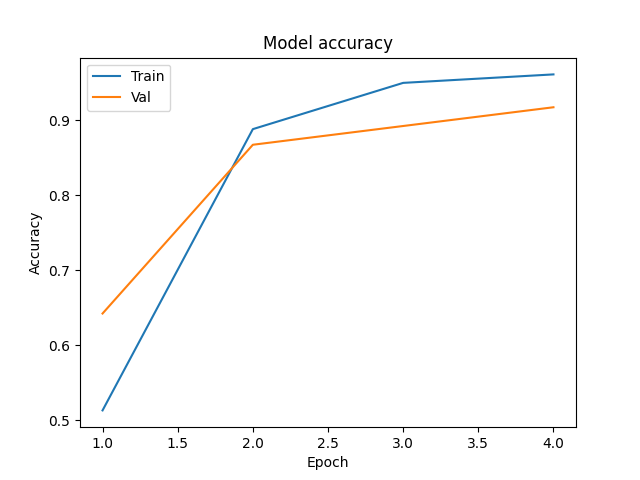
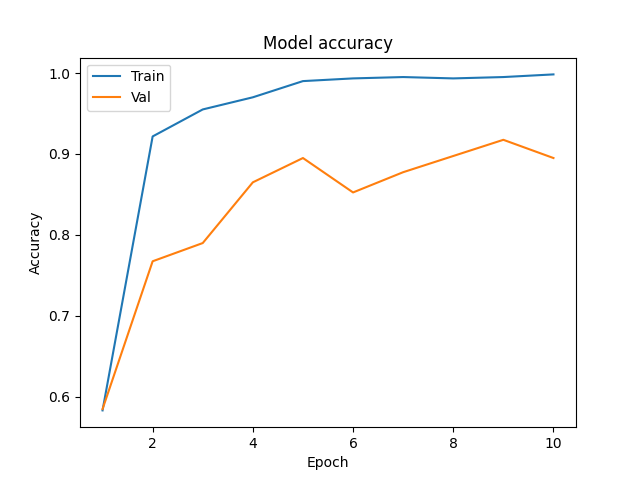
debug sound recognition laying for bedroom activity bayes model

diff --git a/room_sound/ascc_extraction_2.py b/room_sound/ascc_extraction_2.py
@@ -45,7 +45,8 @@ flush_toilet@9_freesound-flush_toilet__253105__va7mjl__toilet-flush_4.wav
     '''
     info = {}
     for i in labels:
-        sub_dir = "/home/ascc/LF_Workspace/Motion-Trigered-Activity/Sound-Recognition-Tutorial/data/ascc_activity_1second/audio/" + i
+        # sub_dir = "/home/ascc/LF_Workspace/Motion-Trigered-Activity/Sound-Recognition-Tutorial/data/ascc_activity_1second/audio/" + i
+        sub_dir = "/home/ascc/LF_Workspace/Bayes_model/ADL_HMM_BAYES_V2/ADL_HMM_BAYES/room_sound/sound_dataset/ascc_activity_1second/audio/" + i
         files = os.listdir(sub_dir)
         aa = []
         for a_file in files:
@@ -61,6 +62,12 @@ flush_toilet@9_freesound-flush_toilet__253105__va7mjl__toilet-flush_4.wav
     train_labels = []
     test_feats = []
     test_labels = []
+
+    """
+    total sample:  2175
+    train_feats: (1735, 64, 138)
+    test_feat: (440, 64, 138)
+    """
 
     # class_list = np.sort(glob('./data/esc10/audio/*'))
     # class_list = np.sort(glob('/home/ascc/Downloads/total_sound_1_second/*'))
@@ -121,8 +128,13 @@ flush_toilet@9_freesound-flush_toilet__253105__va7mjl__toilet-flush_4.wav
 
     # np.savez('./data/esc10/feature/esc10_mfcc_fold{}.npz'.format(fold),
     #          train_x=train_feats, train_y=train_labels, test_x=test_feats, test_y=test_labels)
-    np.savez('/home/ascc/LF_Workspace/Motion-Trigered-Activity/Sound-Recognition-Tutorial/data/ascc_activity_1second/feature/ascc_logmel_total.npz',
+    # np.savez('/home/ascc/LF_Workspace/Motion-Trigered-Activity/Sound-Recognition-Tutorial/data/ascc_activity_1second/feature/ascc_logmel_total.npz',
+    #             train_x=train_feats, train_y=train_labels, test_x=test_feats, test_y=test_labels)
+
+    np.savez('/home/ascc/LF_Workspace/Bayes_model/ADL_HMM_BAYES_V2/ADL_HMM_BAYES/room_sound/sound_dataset/ascc_activity_1second/feature/ascc_logmel_total.npz',
                 train_x=train_feats, train_y=train_labels, test_x=test_feats, test_y=test_labels)
+
+                
 
 
 if __name__ == '__main__':

diff --git a/room_sound/audio_process.py b/room_sound/audio_process.py
@@ -101,17 +101,26 @@ if __name__ == '__main__':
     source_dir = '/home/ascc/Desktop/Sample_set/whand/'
     target_dir = '/home/ascc/Desktop/Sample_set/whand_1sec/'
 
-    
-    cnt = audio_file_truncate(source_dir, target_dir)
-    print('Count:', cnt)
+    # dir = '/home/ascc/Desktop/image_living_bedroom/new_data/audio/'
+    # target = '/home/ascc/Desktop/image_living_bedroom/new_data/quiet_1sec/'
+    # cnt = copy_file(dir, target)
+    # print("count:", cnt)
+
+    dir = '/home/ascc/Desktop/image_living_bedroom/new_data/quiet/'
+    target = '/home/ascc/Desktop/image_living_bedroom/new_data/quiet_test/'
+    cnt = copy_file(dir, target)
+    print("count:", cnt)
+
+
+    # source_dir =  '/home/ascc/Desktop/image_living_bedroom/new_data/audio_pad/'
+    # target_dir = '/home/ascc/Desktop/image_living_bedroom/new_data/quiet_1sec/'
+    # cnt = audio_file_truncate(source_dir, target_dir)
+    # print('Count:', cnt)
     
     # audio_file_truncate_by_dir('/home/ascc/LF_Workspace/Motion-Trigered-Activity/Sound-Recognition-Tutorial/data/ascc_activity/')   
 
 
-# dir = '/home/ascc/LF_Workspace/Motion-Trigered-Activity/senior_design/Server/data/audio/'
-# target = '/home/ascc/LF_Workspace/Motion-Trigered-Activity/Sound-Recognition-Tutorial/data/rpi/'
-#cnt = copy_file(dir, target)
-#print("count:", cnt)
+
 
 
 

diff --git a/room_sound/ascc_room_sound_activity_train.py b/room_sound/ascc_room_sound_activity_train.py
@@ -84,8 +84,8 @@ def CNN_train(test_fold, feat):
     # test_feat: (469, 64, 138)
     # test_labes: (469,)
     # train_features, train_labels, test_features, test_labels = esc10_input.get_data(test_fold, feat)
-    ob_folder = '/home/ascc/LF_Workspace/Motion-Trigered-Activity/Sound-Recognition-Tutorial/data/ascc_activity_1second/feature/ascc_logmel_total.npz' # acc:0.9396
-    # ob_folder = '/home/ascc/LF_Workspace/Motion-Trigered-Activity/Sound-Recognition-Tutorial/data/ascc_activity_5second/feature/ascc_logmel_total.npz'
+    # ob_folder = '/home/ascc/LF_Workspace/Motion-Trigered-Activity/Sound-Recognition-Tutorial/data/ascc_activity_1second/feature/ascc_logmel_total.npz' # acc:0.9396
+    ob_folder = '/home/ascc/LF_Workspace/Bayes_model/ADL_HMM_BAYES_V2/ADL_HMM_BAYES/room_sound/sound_dataset/ascc_activity_1second/feature/ascc_logmel_total.npz'
     train_features, train_labels, test_features, test_labels = esc10_input.get_data_all(ob_folder, feat, number_class=num_class)
 
     # print('train_labels: ',train_labels.shape)

diff --git a/motion_adl_bayes_model.py b/motion_adl_bayes_model.py
@@ -89,6 +89,7 @@ MOTION_TYPE_SITTING = 'sitting'
 MOTION_TYPE_STANDING = 'standing'
 MOTION_TYPE_WALKING = 'walking'
 MOTION_TYPE_SQUATING = 'squating' # treat it as sitting or ignore it 
+MOTION_TYPE_LAYING = 'laying'
 
 P2_Motion_type_Under_Act = {
 ACTIVITY_BED_TO_TOILET: {MOTION_TYPE_SITTING:0.3, MOTION_TYPE_STANDING:0.6, MOTION_TYPE_WALKING:0.1},
@@ -104,7 +105,7 @@ ACTIVITY_DESK_ACTIVITY : {MOTION_TYPE_SITTING:0.95, MOTION_TYPE_STANDING:0.05, M
 ACTIVITY_EVE_MEDS : {MOTION_TYPE_SITTING:0.8, MOTION_TYPE_STANDING:0.2, MOTION_TYPE_WALKING:0.0001},
 ACTIVITY_MEDITATE : {MOTION_TYPE_SITTING:0.2, MOTION_TYPE_STANDING:0.8, MOTION_TYPE_WALKING:0.0001},
 ACTIVITY_DINING_RM_ACTIVITY : {MOTION_TYPE_SITTING:0.7, MOTION_TYPE_STANDING:0.2, MOTION_TYPE_WALKING:0.1},
-ACTIVITY_MASTER_BEDROOM : {MOTION_TYPE_SITTING:0.3, MOTION_TYPE_STANDING:0.1, MOTION_TYPE_WALKING:0.2, OTHER:0.4}
+ACTIVITY_MASTER_BEDROOM : {MOTION_TYPE_SITTING:0.3, MOTION_TYPE_STANDING:0.1, MOTION_TYPE_WALKING:0.2, MOTION_TYPE_LAYING:0.4}
 
 }
 
